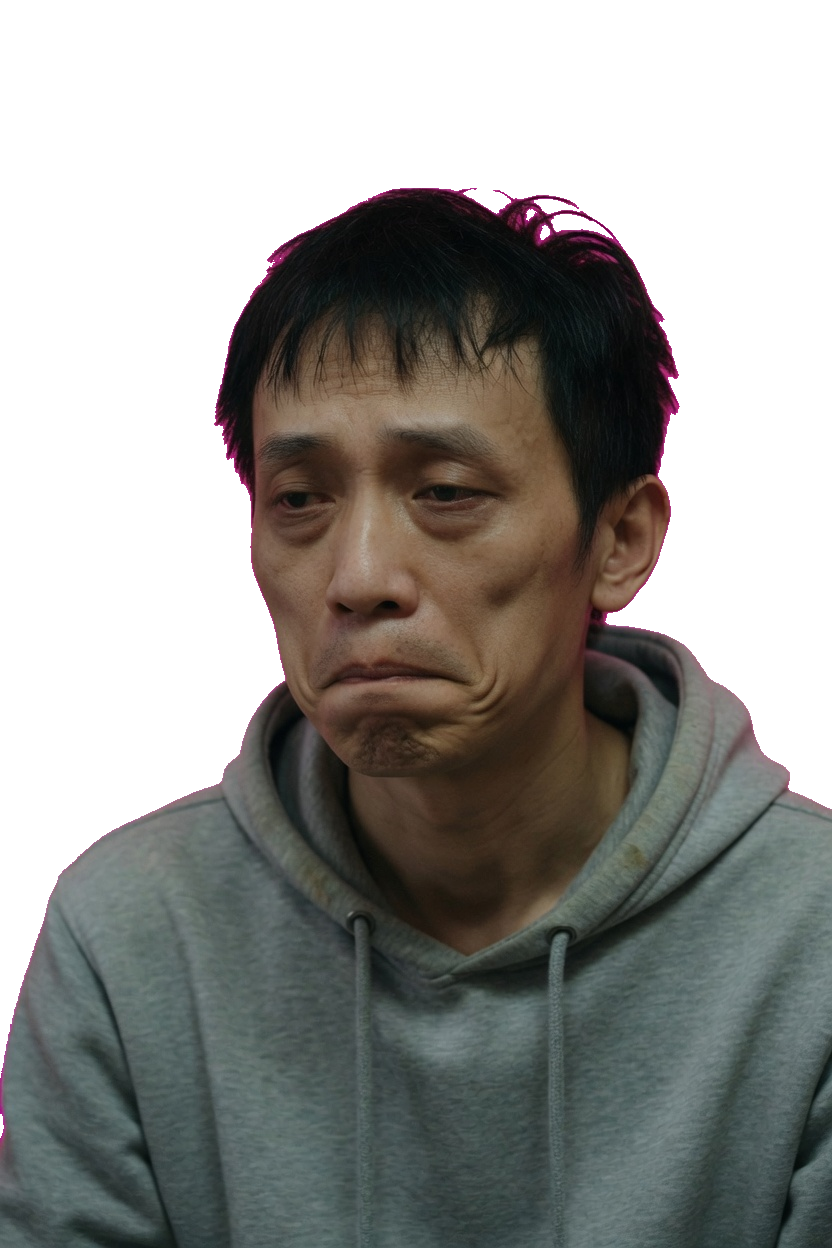
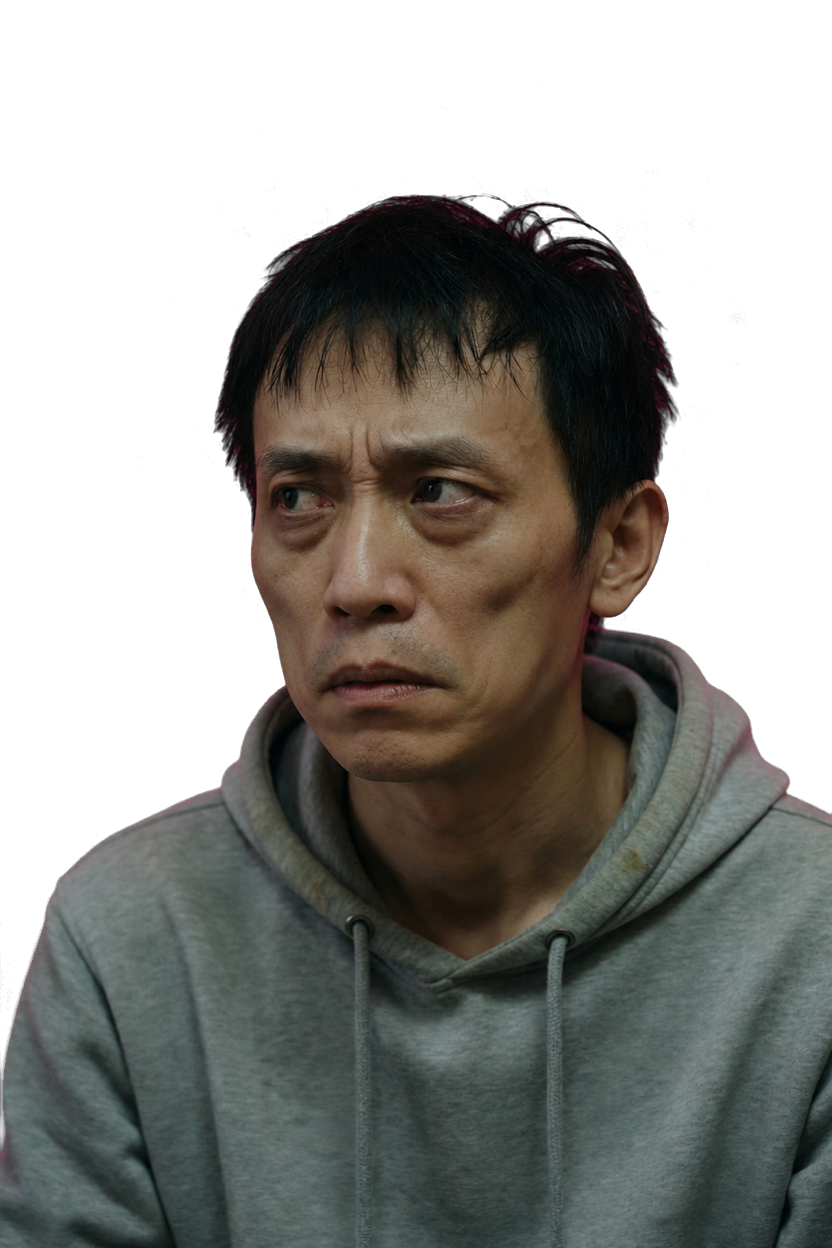
fix(assets): restore distinct Su Ming moods

diff --git a/packages/content/assets/ATTRIBUTION.md b/packages/content/assets/ATTRIBUTION.md
@@ -15,6 +15,24 @@ commercial-release asset merely because it is present in the demo: the ledger's
 
 These are project-owned generation outputs for SupaLuv prototype use.
 
+### Recorded 2026-07-11 mood repairs
+
+`suming-committed` and `suming-restless` were regenerated because their previous
+files duplicated `suming-lonely` and `suming-shame`. The final prompts,
+invariants, processing steps and source references are recorded in
+`packages/content/characters/suming/prompts.md`. This repairs provenance for
+those two outputs only; it does not retroactively clear the older generated
+image/video set.
+
+Current OpenAI service terms say customers own output to the extent permitted by
+law, while visual-capability users remain responsible for having necessary
+input and likeness rights. Keep the two repaired assets at
+`terms_review_pending` until the product's release-rights review records the
+applicable account agreement and confirms the fictional-character input chain:
+
+- <https://openai.com/policies/service-terms/>
+- <https://cdn.openai.com/osa/openai-services-agreement.pdf>
+
 ## AI music beds (Lyria 3 via Gemini, 2026-07)
 
 Owner-generated instrumental beds. Runtime IDs are stable; original export
@@ -35,6 +53,12 @@ Notes:
   the Mixkit prototype beds were replaced.
 - Voice channel is reserved (no VO files yet). TTS vendor research:
   `docs/reference/research/ai-voice-tts-vendor-selection-v1.md`.
+- Google states that it does not claim ownership of original output from
+  labs.google/fx and documents downloading Lyria tracks, but the local files do
+  not retain generation-session receipts. Their commercial evidence therefore
+  remains pending rather than inferred from the general terms:
+  <https://labs.google/fx/en-gb/faq> and
+  <https://support.google.com/gemini/answer/16901237>.
 
 ## Third-party free SFX (Mixkit License)
 

diff --git a/packages/content/characters/suming/prompts.md b/packages/content/characters/suming/prompts.md
@@ -17,3 +17,22 @@ Keep the exact same face, age, hair, and gray hoodie as the reference. Only chan
 - tempted: focused hungry eyes toward offscreen phone light
 - uncanny: frozen half-smile, unsettled eyes
 - committed: calm resolved expression, steady eyes
+
+## Regeneration record (2026-07-11)
+
+`committed` and `restless` previously duplicated the bytes of `lonely` and
+`shame`. They were regenerated with the Codex built-in image generation tool,
+using their existing raw portraits as identity/framing references.
+
+- `committed`: change expression only to calm resolve, steady eyes looking
+  slightly left of camera, relaxed closed mouth, subtle determination.
+- `restless`: change expression only to furrowed brows, tense restless jaw and
+  alert offscreen eyes; restrained realistic anxiety, not panic.
+- Locked invariants: exact adult Chinese male identity, face proportions, age,
+  hair, gray hoodie, lighting, 2:3 framing, and flat magenta chroma background;
+  no text, logo, watermark or extra objects.
+- Processing: resize to 832×1248; save the JPEG raw reference; remove the
+  balanced magenta key locally with soft matte + despill; visually inspect the
+  transparent PNG before replacing the stable runtime ID.
+- Runtime fingerprints and release state live in
+  `packages/content/assets/RUNTIME-ASSET-LEDGER.csv`.
